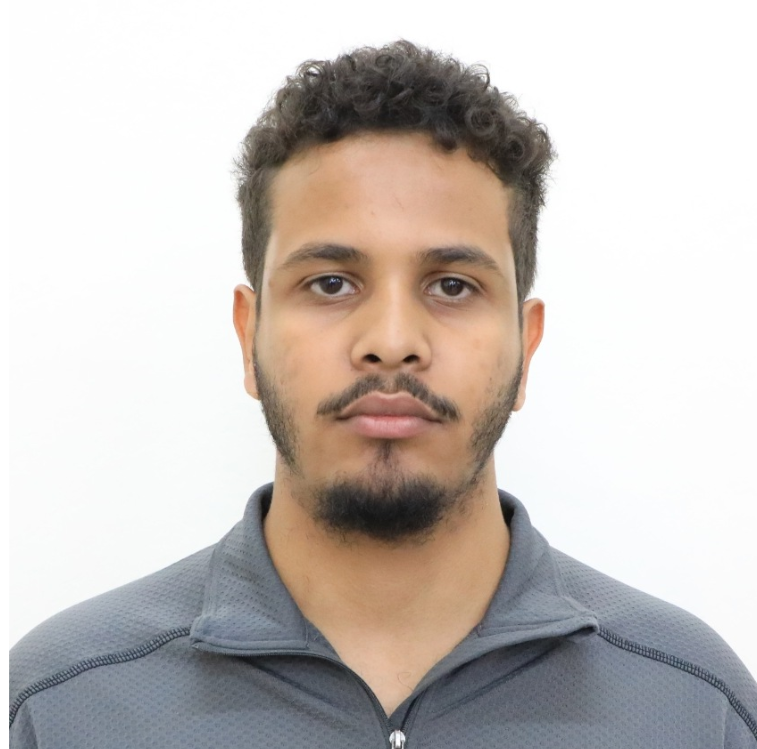
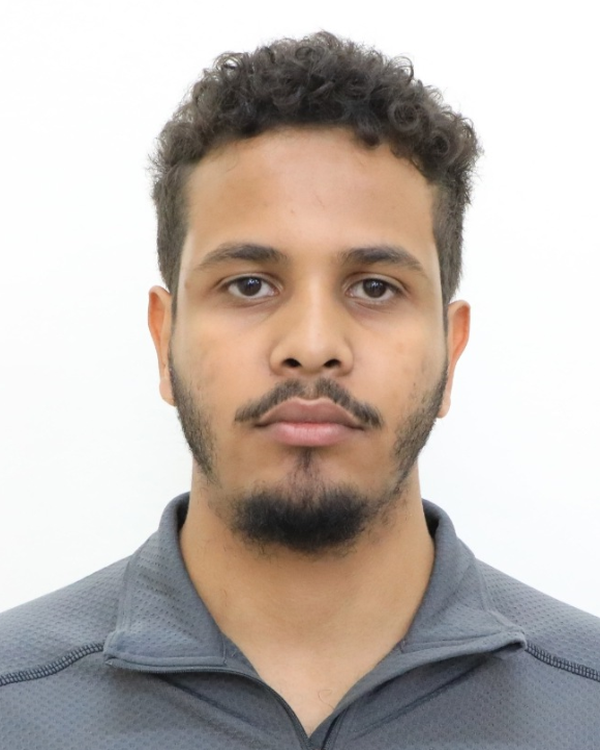
modernize projects section and animations

diff --git a/script.js b/script.js
@@ -4,10 +4,12 @@ const skills = {
     { label: "C++", color: "#00599C" },
     { label: "Python", color: "#3776AB" },
     { label: "JavaScript", color: "#F7DF1E" },
-    { label: "Java", color: "#ED8B00" },
+    { label: "TypeScript", color: "#3178C6" },
     { label: "HTML", color: "#E34F26" },
     { label: "CSS", color: "#1572B6" },
     { label: "SQL", color: "#336791" },
+    { label: "PostgreSQL", color: "#336791" },
+    { label: "REST API", color: "#336791" },
     { label: "C", color: "#A8B9CC" },
   ],
   row2: [
@@ -28,6 +30,7 @@ const skills = {
     { label: "LightGBM", color: "#6BC46D" },
     { label: "Jupyter", color: "#F37626" },
     { label: "VS Code", color: "#007ACC" },
+    { label: "Figma", color: "#F24E1E" },
     { label: "Conda", color: "#44A833" },
   ],
 };
@@ -47,6 +50,18 @@ buildMarquee("row3", skills.row3);
 
 /* ── Projects ── */
 const projects = [
+  {
+    name: "SRAHUB",
+    desc: "A deployed fullstack web platform built with Next.js and TypeScript — a live, production-ready site for community resource sharing. End-to-end: frontend, API, and deployment on Cloudflare Workers.",
+    tags: ["Next.js", "TypeScript", "Fullstack", "Deployed"],
+    github: "https://github.com/toedue/srahub",
+    demo: "https://srahub-web.srahub.workers.dev/",
+    codeIcon: "github",
+    codeText: "Code",
+    demoIcon: "external",
+    demoText: "Live",
+    screen: "https://srahub-web.srahub.workers.dev/",
+  },
   {
     name: "SMART CAMPUS",
     desc: "An advanced AI study assistant designed to streamline student life through intelligent chat, document analysis, and academic organization. Features a specialized multi-model parallel generation engine for the highest quality responses.",
@@ -96,6 +111,8 @@ const projects = [
 ];
 
 const icons = {
+  external:
+    '<svg viewBox="0 0 24 24" xmlns="http://www.w3.org/2000/svg"><path d="M7 7h-2v14h14v-2H9.4l6.3-6.3-1.4-1.4L8 16.6V7zm11.6.6L15 5.4l2.6-2.6c.4-.4 1-.4 1.4 0l2.6 2.6c.4.4.4 1 0 1.4L16.6 11l-1.4-1.4z"/></svg>',
   github:
     '<svg viewBox="0 0 24 24" xmlns="http://www.w3.org/2000/svg"><path d="M12 .297c-6.63 0-12 5.373-12 12 0 5.303 3.438 9.8 8.205 11.385.6.113.82-.258.82-.577 0-.285-.01-1.04-.015-2.04-3.338.724-4.042-1.61-4.042-1.61C4.422 18.07 3.633 17.7 3.633 17.7c-1.087-.744.084-.729.084-.729 1.205.084 1.838 1.236 1.838 1.236 1.07 1.835 2.809 1.305 3.495.998.108-.776.417-1.305.76-1.605-2.665-.3-5.466-1.332-5.466-5.93 0-1.31.465-2.38 1.235-3.22-.135-.303-.54-1.523.105-3.176 0 0 1.005-.322 3.3 1.23.96-.267 1.98-.399 3-.405 1.02.006 2.04.138 3 .405 2.28-1.552 3.285-1.23 3.285-1.23.645 1.653.24 2.873.12 3.176.765.84 1.23 1.91 1.23 3.22 0 4.61-2.805 5.625-5.475 5.92.42.36.81 1.096.81 2.22 0 1.606-.015 2.896-.015 3.286 0 .315.21.69.825.57C20.565 22.092 24 17.592 24 12.297c0-6.627-5.373-12-12-12"/></svg>',
   codeforces:
@@ -112,10 +129,19 @@ projects.forEach((p, i) => {
   const demoBtn = p.demo
     ? `<a href="${p.demo}" target="_blank" rel="noopener" class="proj-btn proj-demo">${icons[p.demoIcon]}${p.demoText}</a>`
     : "";
+  const screen = p.screen
+    ? `<a href="${p.screen}" target="_blank" rel="noopener" class="proj-screen">
+      <div class="browser-bar">
+        <div class="browser-url">${p.screen.replace(/^https?:\/\//, "")}</div>
+      </div>
+      <iframe src="${p.screen}" loading="lazy" referrerpolicy="no-referrer" title="${p.name} preview"></iframe>
+    </a>`
+    : "";
   card.innerHTML = `
     <h3 class="project-name">${p.name}</h3>
     <p class="project-desc">${p.desc}</p>
     <div class="project-tags">${p.tags.map((t) => `<span class="tag">${t}</span>`).join("")}</div>
+    ${screen}
     <div class="project-links">
       <a href="${p.github}" target="_blank" rel="noopener" class="proj-btn proj-code">${icons[p.codeIcon]}${p.codeText}</a>
       ${demoBtn}

diff --git a/style.css b/style.css
@@ -240,12 +240,20 @@ nav.hidden-nav { transform: translateY(-140%); }
 @media (max-width: 768px) { .about-grid { grid-template-columns: 1fr; gap: 2.5rem; } }
 
 .about-img-wrap {
-  border-radius: 1.25rem; overflow: hidden;
+  position: relative;
+  aspect-ratio: 4 / 5;
+  border-radius: 1.5rem; overflow: hidden;
   border: 1px solid var(--card-border);
-  aspect-ratio: 4/3;
   background: var(--card-bg);
   backdrop-filter: blur(12px);
   display: flex; align-items: center; justify-content: center;
+  box-shadow: 0 12px 40px rgba(0,0,0,0.45), 0 0 0 1px rgba(168,85,247,0.15);
+}
+.about-img-wrap::after {
+  content: ''; position: absolute; inset: -2px; z-index: 2; pointer-events: none;
+  border-radius: 1.6rem;
+  background: linear-gradient(135deg, rgba(168,85,247,0.55), transparent 40%, rgba(123,47,190,0.4));
+  opacity: 0.55;
 }
 .about-placeholder {
   width: 100%; height: 100%;
@@ -264,8 +272,13 @@ nav.hidden-nav { transform: translateY(-140%); }
 .placeholder-label img {
   width: 100%; height: 100%;
   object-fit: cover;
-  object-position: center;
+  object-position: 50% 22%;
   display: block;
+  transition: transform 0.6s ease, filter 0.4s ease;
+}
+.about-img-wrap:hover .placeholder-label img {
+  transform: scale(1.04);
+  filter: brightness(1.08) saturate(1.08);
 }
 
 .about-text p {
@@ -397,6 +410,36 @@ nav.hidden-nav { transform: translateY(-140%); }
   font-weight: 600;
 }
 .proj-demo:hover { opacity: 0.88; transform: translateY(-1px); }
+
+/* ── Project live preview ── */
+.proj-screen {
+  margin: 0 0 1.25rem;
+  border-radius: 0.75rem; overflow: hidden;
+  border: 1px solid var(--card-border);
+  background: #0d0420;
+  box-shadow: inset 0 0 0 1px rgba(0,0,0,0.4);
+  display: block;
+  text-decoration: none;
+}
+.proj-screen .browser-bar {
+  display: flex; align-items: center; gap: 0.4rem;
+  padding: 0.4rem 0.8rem;
+  background: rgba(255,255,255,0.03);
+  border-bottom: 1px solid rgba(255,255,255,0.08);
+}
+.proj-screen .browser-url {
+  font-family: var(--font-mono); font-size: 0.62rem;
+  color: rgba(255,255,255,0.5);
+  background: rgba(0,0,0,0.25); border-radius: 0.4rem;
+  padding: 0.2rem 0.5rem; white-space: nowrap; overflow: hidden;
+  text-overflow: ellipsis;
+  width: 100%;
+}
+.proj-screen iframe {
+  display: block; width: 100%; aspect-ratio: 16 / 9;
+  border: none; background: #fff;
+  pointer-events: none;
+}
 
 /* ── Contact ── */
 #contact { padding: 6rem 0; position: relative; z-index: 1; }

diff --git a/index.html b/index.html
@@ -3,7 +3,7 @@
 <head>
 <meta charset="UTF-8" />
 <meta name="viewport" content="width=device-width, initial-scale=1.0" />
-<title>Abdulkadir Abdo | CS Student & Developer</title>
+<title>Abdulkadir Abdo | Software Engineer & AI/ML</title>
 <link rel="preconnect" href="https://fonts.googleapis.com" />
 <link rel="preconnect" href="https://fonts.gstatic.com" crossorigin />
 <link href="https://fonts.googleapis.com/css2?family=Dancing+Script:wght@700&family=Space+Grotesk:wght@300;400;500;600;700&family=Space+Mono:wght@400;700&family=Nasalization&display=swap" rel="stylesheet" />
@@ -31,10 +31,12 @@
   <div class="container">
     <div style="max-width:700px">
       <h1 class="hero-name">Abdulkadir Abdo</h1>
-      <p class="hero-role">ASTUMSJ Bootcamp Organizer & Mentor · MERN Full-Stack Developer · Competitive Programmer</p>
+      <p class="hero-role">Software Engineer · Fullstack Developer · AI &amp; Machine Learning · DSA Competitive Programmer · ASTU Bootcamp Organizer &amp; Mentor</p>
       <p class="hero-bio">
-        Third year CS &amp; Engineering student at ASTU, Ethiopia. I organize and mentor students through
-        the ASTUMSJ Summer Bootcamp, build projects and stay sharp on Codeforces and LeetCode.
+        Fourth year CS &amp; Engineering student at ASTU, Ethiopia. I organize and mentor students through
+        the ASTUMSJ Summer Bootcamp, build projects, and stay sharp on Codeforces and LeetCode.
+        I work regularly with AI and machine learning on real datasets — Kaggle, Zindi, and production-
+        oriented projects — and I'm comfortable shipping end-to-end fullstack systems, not just notebooks.
       </p>
       <div class="hero-btns">
         <a href="#projects" class="btn-white">View Projects</a>
@@ -58,7 +60,7 @@
         <h2 class="section-title">About Me</h2>
         <br/>
         <p>
-          Hi! I'm a third-year Computer Science and Engineering student at Adama Science and Technology University (ASTU), Ethiopia.
+          Hi! I'm a fourth-year Computer Science and Engineering student at Adama Science and Technology University (ASTU), Ethiopia.
         </p>
         <p>
           I organize and mentor students at the ASTUMSJ Summer Bootcamp, a structured program covering
